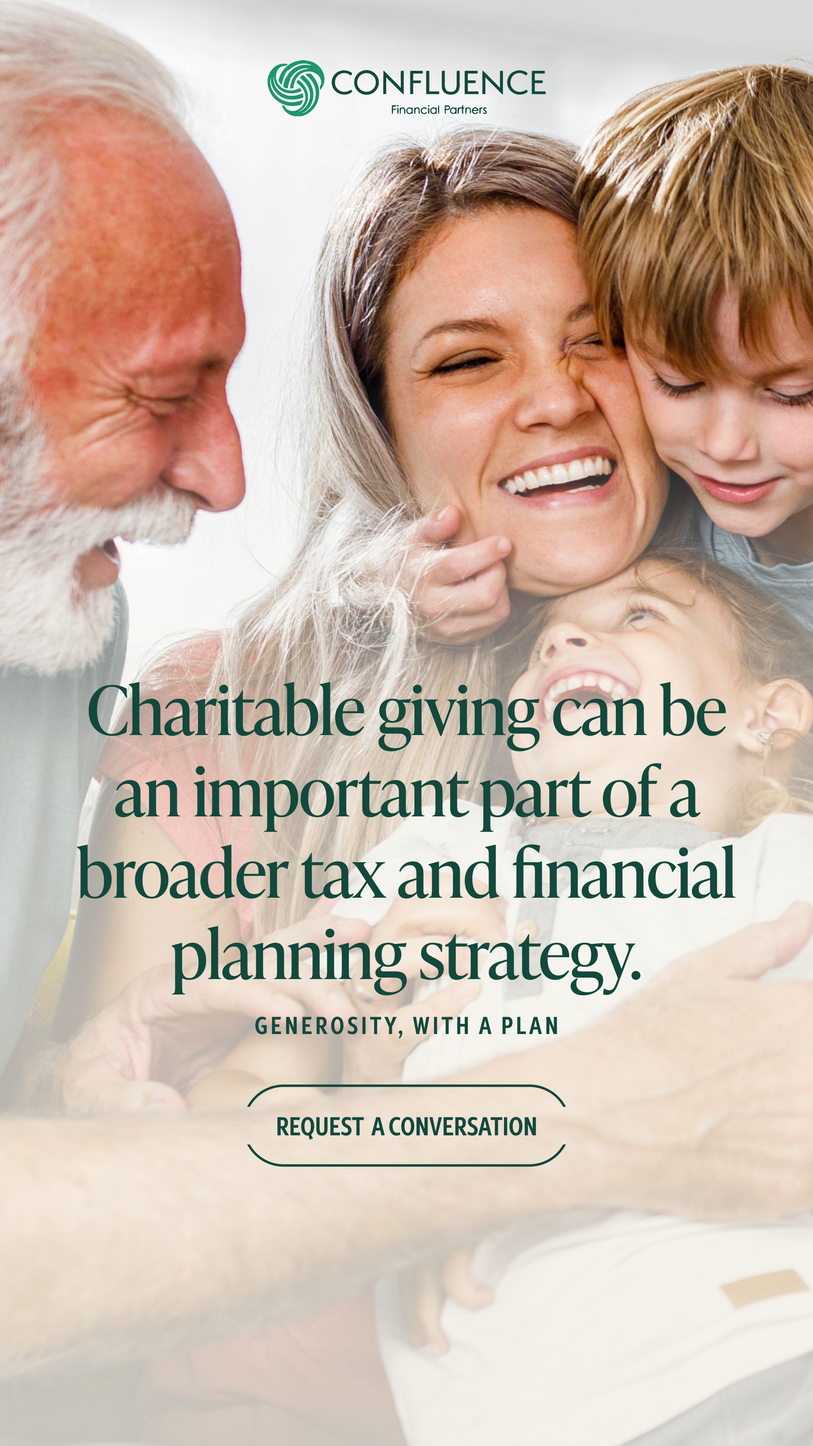
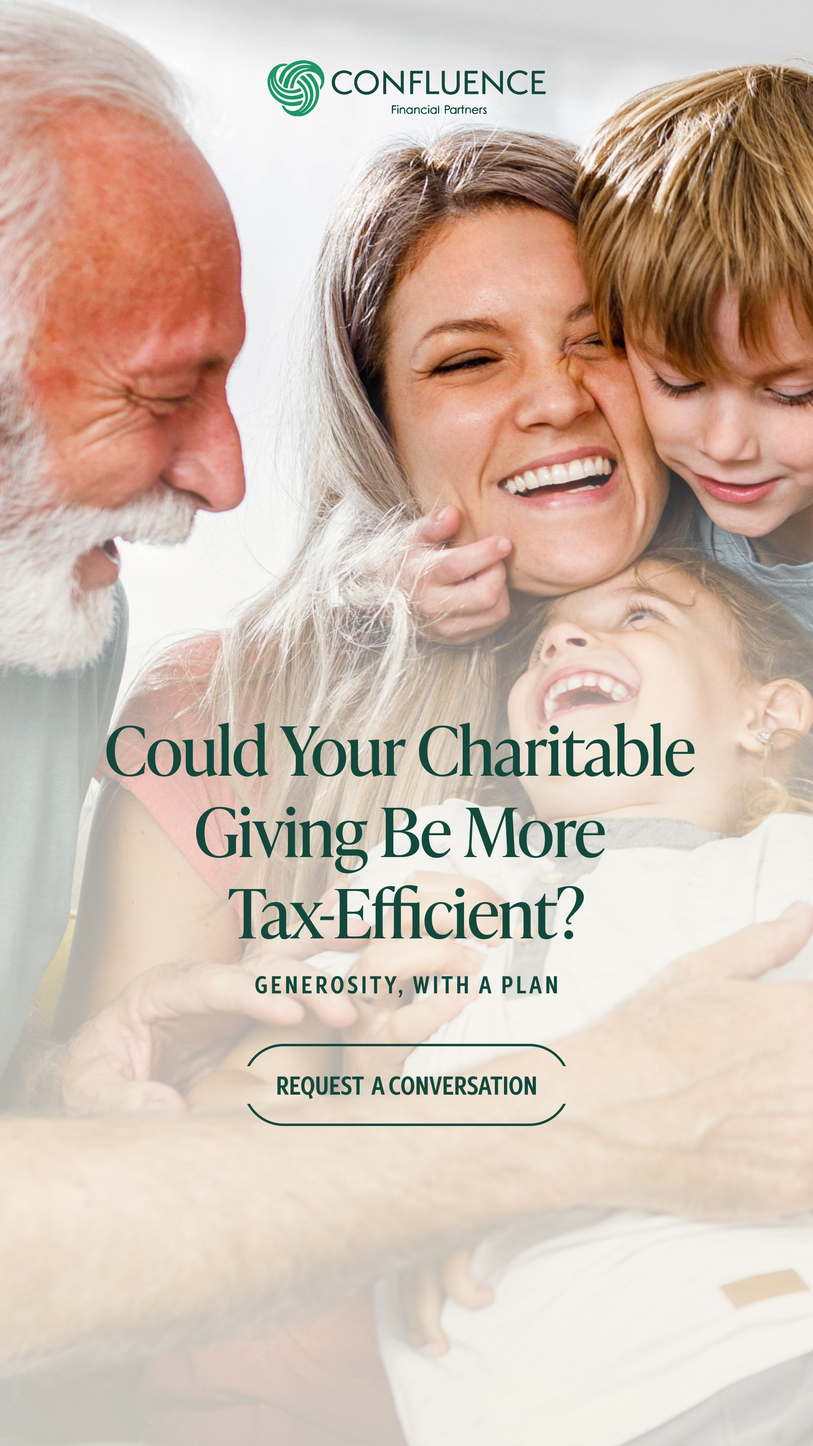
CFP vEdge: Ad 13 (Philanthropic) revised headline -> 'Could Your Charitable Giving Be More Tax-Efficient?'

Changed region(s): [[0.0931, 0.4688, 0.8995, 0.8125], [0.0931, 0.4688, 0.1241, 0.5]]

diff --git a/confluence-fp-consultation-vedge/index.html b/confluence-fp-consultation-vedge/index.html
@@ -1205,7 +1205,7 @@ let _activeImageVersion = {};
 let _placementIdx = {};
 let _feedbackCache = {};
 const CAMPAIGN_ID = 'confluence-fp-consultation-vedge';
-const ASSET_V = '1787334050';  // cache-bust token, stamped at bake time
+const ASSET_V = '1787338118';  // cache-bust token, stamped at bake time
 
 // ── Utility ────────────────────────────────────────────────────────────────
 function esc(s) {

diff --git a/confluence-fp-consultation-vedge/IMAGE-TEXT-PUNCHLIST.md b/confluence-fp-consultation-vedge/IMAGE-TEXT-PUNCHLIST.md
@@ -19,7 +19,7 @@ Source: `feedback` table, campaign `confluence-fp-consultation-vedge`.
 | 10 | Generational | Don't Just Build Your Legacy. Prepare Your Heirs. / MORE THAN THE MONEY | headline → **"Don't Just Build Your Legacy. Plan for the Next Generation."** | ✅ placed (output 103) |
 | 11 | Life-Stage | Life's Milestones Don't Come With a Financial Playbook. / LIFE RARELY STANDS STILL | (no comment) | ✓ |
 | 12 | Exit | I'm Ready to Sell My Business. What's Next? / THE OFFER WILL COME | eyebrow → **"Preparing for life after the sale starts before the transaction."** | ✅ placed (output 104) |
-| 13 | Philanthropic | A Big Charitable Gift Could Come With a Big Tax Opportunity. / GENEROSITY, WITH A PLAN | headline → **"Charitable giving can be an important part of a broader tax and financial planning strategy."** | ✅ placed (output 105) |
+| 13 | Philanthropic | A Big Charitable Gift Could Come With a Big Tax Opportunity. / GENEROSITY, WITH A PLAN | headline → **"Could Your Charitable Giving Be More Tax-Efficient?"** (revised from the longer line) | ✅ placed (output 109, revised) |
 
 **Dollar figures:** Katie (compliance) reviewed ad-by-ad and kept the $ headlines on Ads 1 & 2 (edited only their eyebrows). That's her compliance call — leave as approved, no action.
 
